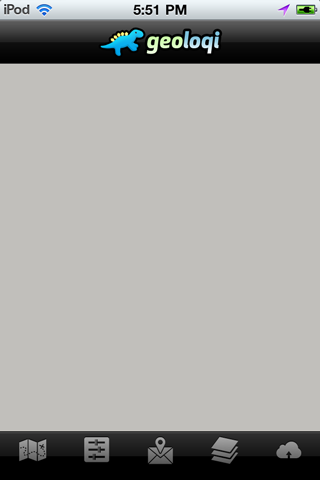
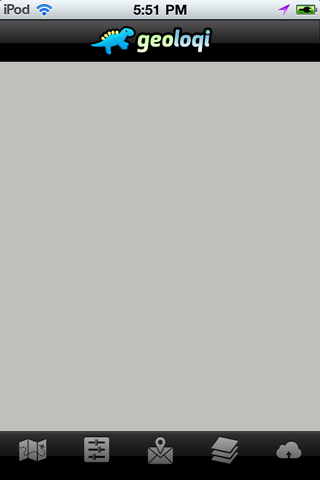
Polishing the graphics for the new controls in the title bar of the map screen.

Changed region(s): [[0.0, 0.0312, 1.0, 0.1562]]

diff --git a/Geoloqi/LQMapViewController.m b/Geoloqi/LQMapViewController.m
@@ -57,20 +57,23 @@
 	CustomUISwitch *toggleSwitch = [[CustomUISwitch alloc] initWithImageNamed:@"switch_dark.png"
 															 withOnImageNamed:@"switch_dark_on.png"
 															withOffImageNamed:@"switch_dark_off.png"];
-	[toggleSwitch setCenter:(CGPoint){266.0, 21.0}];
+	[toggleSwitch setCenter:(CGPoint){266.0, 22.0}];
 	[self.controlBanner addSubview: toggleSwitch];
 	[toggleSwitch release];
 	
-	UIImage *stretImg = [[UIImage imageNamed:@"anonButton.png"] stretchableImageWithLeftCapWidth:9.f topCapHeight:9.f];
-
 	// If the user is anonymous, show a banner
 	if( YES ){
+		UIImage *stretImg = [[UIImage imageNamed:@"anonButton.png"] stretchableImageWithLeftCapWidth:9.f topCapHeight:9.f];
 		[self.anonymousSignUpButton setBackgroundImage:stretImg forState:UIControlStateNormal];
 		[self.view addSubview:self.anonymousBanner];
-		[self.anonymousBanner setCenter:(CGPoint){160.0, 60.0}];
+		[self.anonymousBanner setCenter:(CGPoint){160.0, 62.0}];
 	}
 
-	[self.checkInButton setBackgroundImage:stretImg forState:UIControlStateNormal];
+	UIImage *checkinBtnImg = [[UIImage imageNamed:@"checkinButton.png"] stretchableImageWithLeftCapWidth:9.f topCapHeight:9.f];
+	[self.checkInButton setBackgroundImage:checkinBtnImg forState:UIControlStateNormal];
+	UIImage *checkinBtnDisabledImg = [[UIImage imageNamed:@"checkinButtonDisabled.png"] stretchableImageWithLeftCapWidth:9.f topCapHeight:9.f];
+	[self.checkInButton setBackgroundImage:checkinBtnDisabledImg forState:UIControlStateDisabled];
+	[self.checkInButton setTitleColor:[UIColor whiteColor] forState:UIControlStateNormal];
 
 	// Observe our own location manager for updates
 	[[NSNotificationCenter defaultCenter] addObserver:self
@@ -280,11 +283,11 @@
 	if([[Geoloqi sharedInstance] locationUpdatesState]) {
 		// Disable the "send now" button, it will be enabled when a new location point has been received
 		checkInButton.enabled = NO;
-		[checkInButton setTitleColor:[UIColor colorWithRed:0.8 green:0.8 blue:0.8 alpha:1.0] forState:UIControlStateNormal];
+		[checkInButton setTitleColor:[UIColor colorWithRed:0.3 green:0.3 blue:0.3 alpha:1.0] forState:UIControlStateNormal];
 	} else {
 		// Enable the "send now" button since it will cause a single location point to be sent when tapped in this state
 		checkInButton.enabled = YES;
-		[checkInButton setTitleColor:[UIColor colorWithRed:0.215 green:0.32 blue:0.508 alpha:1.0] forState:UIControlStateNormal];
+		[checkInButton setTitleColor:[UIColor colorWithRed:1.0 green:1.0 blue:1.0 alpha:1.0] forState:UIControlStateNormal];
 	}
 }
 
